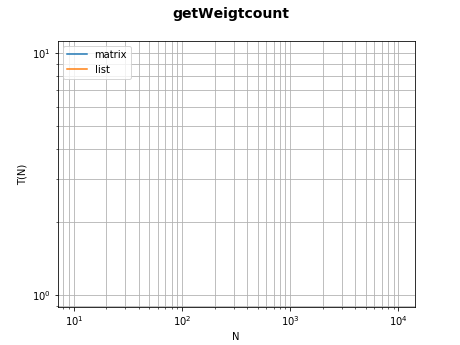
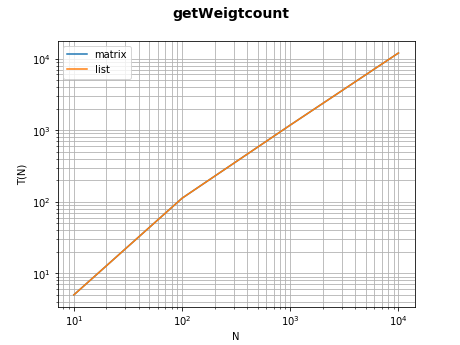
dd

diff --git a/src/helper/GraphGenerator.java b/src/helper/GraphGenerator.java
@@ -23,7 +23,6 @@ public class GraphGenerator {
     public static int[][] genNonDirectionMatrix(int Size){
       int nEdges = 2;
       int edgeCount = 0;
-      int doneIndex =0;
       int[][] tempMatrix = new int[Size][Size];
       Random random = new Random();
       int tmp;
@@ -37,7 +36,7 @@ public class GraphGenerator {
     	  edgeCount=0;
     	  for(int j=i; j < Size ;j++){
     		  tmp = random.nextInt(100);
-        	  if (tmp < 2 && edgeCount == nEdges){
+        	  if (tmp < 20 && edgeCount != nEdges){
               edgeCount++;
     		  tempMatrix[i][j] = random.nextInt(10)+1;
     		  tempMatrix[j][i] = tempMatrix[i][j];
